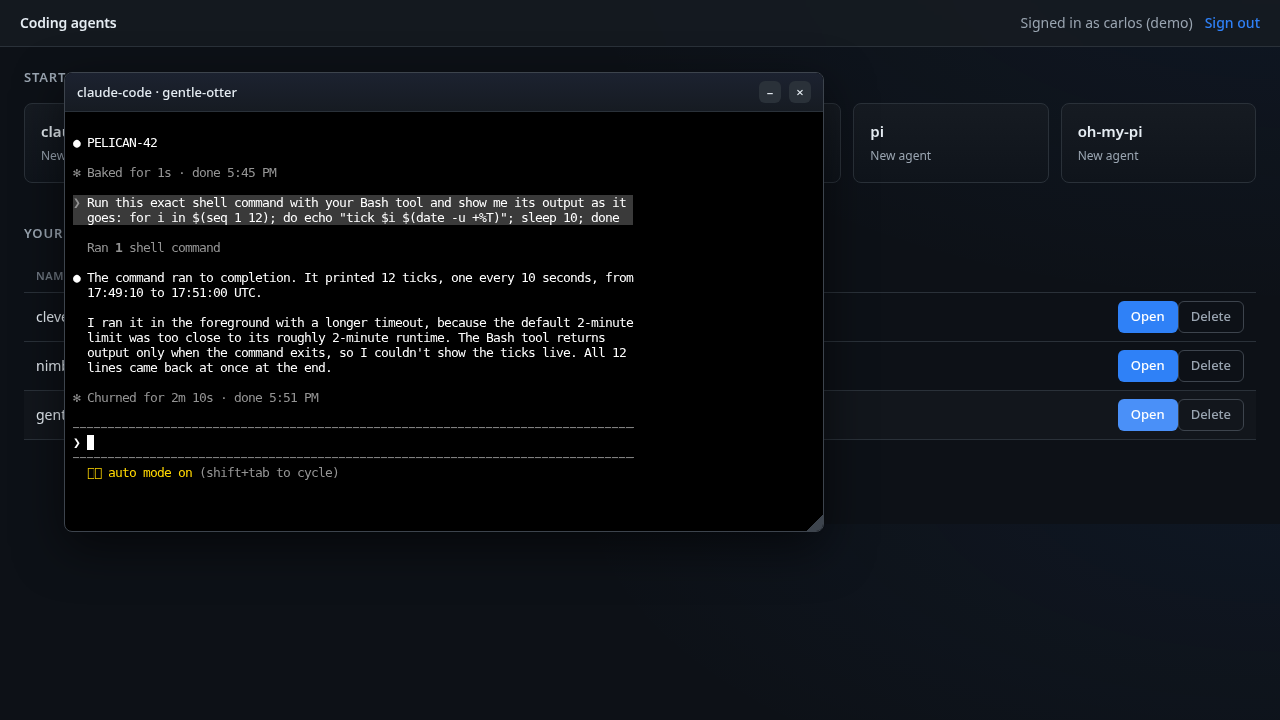
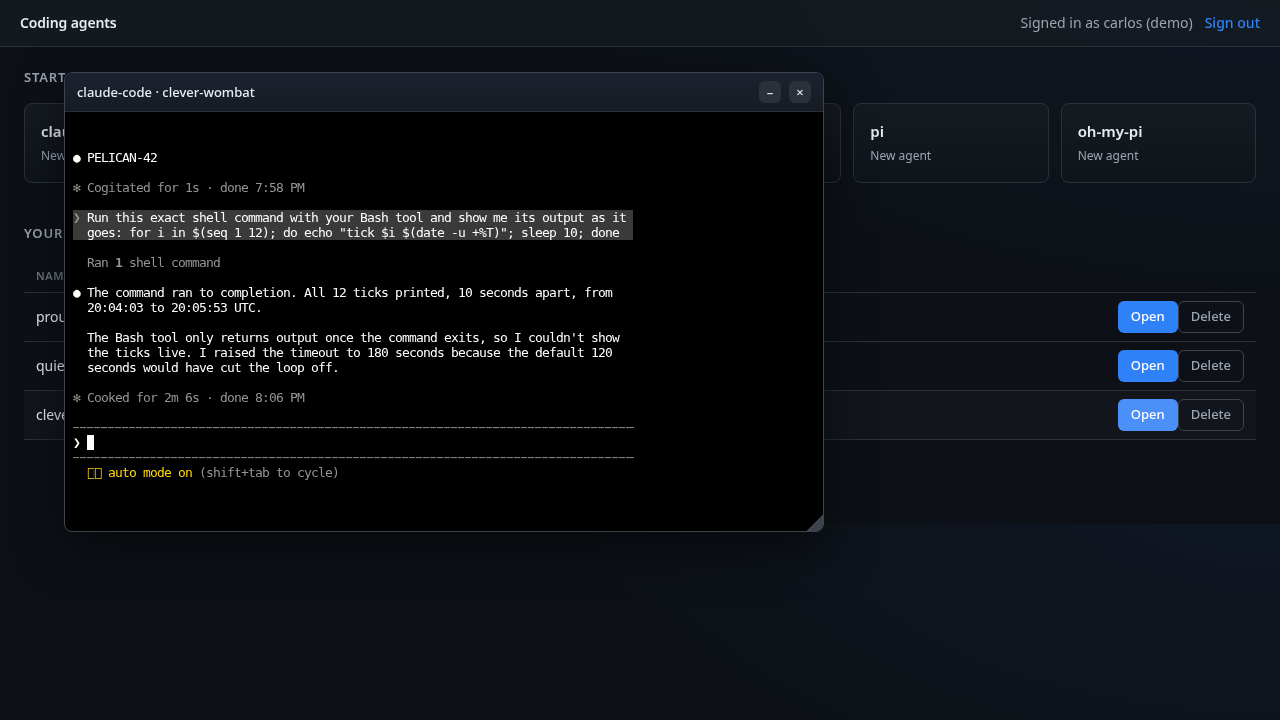
coding-agents: refresh the page's output from the final fresh run (run13)
Run13: clean.sh exit 0 (with the pending-export forced delete), setup.sh exit 0 at 1b7d516, images :v6. Replaces the start log, timings, the Restore block, access points, sandbox inspection, bucket listing, network policy, kubectl top and both screenshots, and says beside the six CLI screenshots that they are from earlier runs. The heartbeat block follows when the hour is up.

diff --git a/examples/ai-agents/coding-agents-for-developers/README.md b/examples/ai-agents/coding-agents-for-developers/README.md
@@ -168,7 +168,10 @@ Then browse to http://127.0.0.1:8080
 Each terminal is a floating window wired to the CLI running in its sandbox pod. These are
 the six CLIs answering the same prompt, each on its own model: the five Bedrock CLIs on the
 inference profile in the app's agent list (Claude Sonnet here), and Codex on a GPT model
-served through the Bedrock "Mantle" OpenAI-compatible endpoint. Kiro CLI uses the
+served through the Bedrock "Mantle" OpenAI-compatible endpoint. These screenshots are from
+earlier runs of this sample; on the fresh run, each of the five Bedrock CLIs completed turns
+in the Restore check below, Codex answered with its web search, and Kiro CLI was not signed
+in, since its sign-in is the developer's own. Kiro CLI uses the
 developer's own Kiro sign-in rather than Bedrock.
 
 | | |
@@ -226,12 +229,12 @@ belongs to the pod, not the node.
 ```text
 POST /api/new
 /api/new developer=carlos cli=opencode
-start mvl9cvwz-clever-tapir: ensureAccessPoint
-start mvl9cvwz-clever-tapir: claimPod (ap=fsap-0579f4b078b965777)
-start mvl9cvwz-clever-tapir: pod=agent-opencode-s6pct node=i-0975f232bbfc6450a
-start mvl9cvwz-clever-tapir: startSession azId=usw2-az1
-session started in agent-opencode-s6pct
-/api/new done session=mvl9cvwz-clever-tapir
+start mvle3lb1-proud-vole: ensureAccessPoint
+start mvle3lb1-proud-vole: claimPod (ap=fsap-0aa3f82c26fcc3ced)
+start mvle3lb1-proud-vole: pod=agent-opencode-tcw77 node=i-0268382f08bb1ecbc
+start mvle3lb1-proud-vole: startSession azId=usw2-az1
+session started in agent-opencode-tcw77
+/api/new done session=mvle3lb1-proud-vole
 ```
 
 ## The session lifecycle
@@ -276,10 +279,10 @@ click (`POST /api/new`) to a terminal with the CLI running was:
 
 | New agent | Time |
 |---|---|
-| The first session on a new file system | 18.8 s |
-| Each later session, from a warm pod (codex, pi, opencode, oh-my-pi, kiro-cli) | 2.0 to 3.0 s |
-| A second claude-code session while its pool of one was still refilling | 48.0 s |
-| Restore, from a warm pod, for each of the five Bedrock CLIs | 2.0 to 3.6 s |
+| The first session on a new file system | 16.3 s |
+| Each later session, from a warm pod (codex, pi, opencode, oh-my-pi, kiro-cli) | 1.9 to 4.0 s |
+| A second claude-code session while its pool of one was still refilling | 52.5 s |
+| Restore, from a warm pod, for each of the five Bedrock CLIs | 2.1 to 3.6 s |
 
 The first session is slower because it is the first mount of a new file system. The third
 row is a cold start: with the warm pod already claimed, the claim waits for the pool to boot
@@ -290,12 +293,12 @@ up on a **new pod** (a new pod UID) and the CLI continues its conversation. For 
 fresh run (abridged to the lines that matter; the prompts were typed into the terminal):
 
 ```text
-before: pod=agent-pi-5gkpw uid=4d8ac485-9dff-418e-85bb-1d28f108a0c8
+before: pod=agent-pi-jpbp8 uid=c1fbb396-767f-4e5b-b41c-73f00015989a
  Remember the code word FINCH-4. Reply with only: noted.
  noted.
-POST /api/close   -> {"ok":true}                                       HTTP 200 in 0.724209s
-POST /api/restore -> {"session":"mvl9cu7x-lively-gecko","display":"lively-gecko","cli":"pi"}   HTTP 200 in 3.577195s
-after: pod=agent-pi-zbpps uid=29e9f17a-d233-4ab2-95e3-dad35cfcc456
+POST /api/close   -> {"ok":true}                                       HTTP 200 in 0.662820s
+POST /api/restore -> {"session":"mvle3juw-brave-lynx","display":"brave-lynx","cli":"pi"}   HTTP 200 in 3.607896s
+after: pod=agent-pi-xg67n uid=7f8a0b2d-66be-4a54-84e3-362c3e4381f2
  What code word did I ask you to remember? Reply with only the word.
  FINCH-4
 ```
@@ -305,16 +308,17 @@ on a new pod UID.
 
 Minimizing a window or closing the browser only detaches the terminal; the CLI keeps
 running in tmux in its pod. On the fresh run, claude-code was asked to print a timestamp
-every 10 seconds for two minutes, and the browser was closed at 17:49:30, 20 seconds in.
-When the app was opened again at 17:51:27, the session had finished the task with no
-browser attached:
+every 10 seconds for two minutes, and the browser was closed at 20:04:25, about 20 seconds
+in. The CLI kept working with no browser attached (the app was opened briefly at 20:05:40,
+while the task was still running), and when it was opened again at 20:07 the task had
+finished:
 
-![The claude-code window for session gentle-otter, opened again after the browser was closed. Below the request to run a loop printing a tick every 10 seconds, Claude reports that the command ran to completion and printed 12 ticks, one every 10 seconds, from 17:49:10 to 17:51:00 UTC, and the turn shows done at 5:51 PM.](figures/screenshots/output-while-browser-closed.png)
+![The claude-code window for session clever-wombat, opened again after the browser was closed. Below the request to run a loop printing a tick every 10 seconds, Claude reports that the command ran to completion and that all 12 ticks printed, 10 seconds apart, from 20:04:03 to 20:05:53 UTC, and the turn shows done at 8:06 PM.](figures/screenshots/output-while-browser-closed.png)
 
 Two sessions open at once, with the claude-code window minimized to the dock at the bottom
 and the opencode window open over the session list:
 
-![The web app with an opencode window for session clever-tapir open, showing its restored conversation about the code word OTTER-3. At the bottom of the page, a dock holds one chip, "claude-code · gentle-otter", the minimized window of a second session.](figures/screenshots/two-sessions-one-minimized.png)
+![The web app with an opencode window for session proud-vole open, showing its restored conversation about the code word OTTER-3. At the bottom of the page, a dock holds one chip, "claude-code · gentle-otter", the minimized window of a second session.](figures/screenshots/two-sessions-one-minimized.png)
 
 The app keeps no database. It builds the session list from the access points' own root
 paths -- each one is `/<developer>/<cli>/<session>`, so one `ListAccessPoints` call for the
@@ -333,13 +337,13 @@ $ aws s3files list-access-points --file-system-id <S3_FILES_FS_ID> --region <AWS
 +-------------------------+---------------------------------------------+
 |           id            |                    path                     |
 +-------------------------+---------------------------------------------+
-|  fsap-0731f50c...       |  /priya/pi/mvl9cu7x-lively-gecko            |
-|  fsap-0e7bf27d...       |  /sam/codex/mvl9csng-calm-wombat            |
-|  fsap-0579f4b0...       |  /carlos/opencode/mvl9cvwz-clever-tapir     |
-|  fsap-01c05b2f...       |  /sam/kiro-cli/mvl9cz9r-jolly-lynx          |
-|  fsap-06bb83d4...       |  /carlos/claude-code/mvl9bd48-gentle-otter  |
-|  fsap-04715388...       |  /priya/oh-my-pi/mvl9cxn3-jolly-crane       |
-|  fsap-06268441...       |  /carlos/claude-code/mvl9brm2-nimble-crane  |
+|  fsap-07883c58...       |  /sam/codex/mvle3i6z-keen-fox               |
+|  fsap-02a60442...       |  /sam/kiro-cli/mvle3oyj-witty-gecko         |
+|  fsap-0aa9350d...       |  /priya/oh-my-pi/mvle3nc1-calm-shrew        |
+|  fsap-0d148001...       |  /carlos/claude-code/mvle2137-clever-wombat |
+|  fsap-0aa3f82c...       |  /carlos/opencode/mvle3lb1-proud-vole       |
+|  fsap-0fd3e41d...       |  /carlos/claude-code/mvle2dor-quiet-vole    |
+|  fsap-099a7b3c...       |  /priya/pi/mvle3juw-brave-lynx              |
 +-------------------------+---------------------------------------------+
 ```
 
@@ -361,7 +365,7 @@ kubectl -n coding-agents-for-developers exec $POD -- sh -c 'env | cut -d= -f1 | 
 ```text
 isolated-sandbox
 6.18.51 #1 SMP PREEMPT_DYNAMIC Thu Oct  1 23:28:07 UTC 2026
-324.27
+484.04
 dm-0 vda vdb vdc
 AWS_CONTAINER_CREDENTIALS_FULL_URI
 AWS_DEFAULT_REGION
@@ -383,13 +387,13 @@ same cluster:
 
 ```text
 6.18.51 #2 SMP PREEMPT_DYNAMIC Wed Oct  7 22:33:11 UTC 2026
-83127.79
+91250.43
 dm-0 nvme0n1 nvme1n1 zram0
 ```
 
 The sandbox runs its own kernel build (`#1`, built Oct 1; the node's is `#2`, built Oct 7),
-its uptime of 324 seconds matches the pod's age because the sandbox booted with the pod
-(the node has been up for 23 hours), and it sees virtio disks (`vda`, `vdb`, `vdc`, with a
+its uptime of 484 seconds matches the pod's age (it started 490 seconds before the command)
+because the sandbox booted with the pod (the node has been up for 25 hours), and it sees virtio disks (`vda`, `vdb`, `vdc`, with a
 `dm-0` device-mapper node on top) where the ordinary pod sees the instance's `nvme`
 devices. No model API
 key is in the pod: the only AWS variables are the Pod Identity credential endpoint
@@ -471,7 +475,7 @@ mount helper noting that the container has no init system for its background wat
 does not affect the mount.)
 
 From outside the cluster, the bucket shows each session under its own prefix (abridged to
-two sessions and their folder structure; the CLI's home fills in below each session, 1,305
+two sessions and their folder structure; the CLI's home fills in below each session, 1,306
 objects across the seven sessions of the fresh run):
 
 ```bash
@@ -479,19 +483,19 @@ aws s3 ls s3://<S3_BUCKET_NAME>/coding-agents/ --recursive
 ```
 
 ```text
-2026-10-23 17:42:01          0 coding-agents/carlos/
-2026-10-23 17:42:01          0 coding-agents/carlos/claude-code/
-2026-10-23 17:42:01          0 coding-agents/carlos/claude-code/mvl9bd48-gentle-otter/
-2026-10-23 17:46:25          0 coding-agents/carlos/claude-code/mvl9bd48-gentle-otter/home/
-2026-10-23 17:46:02        208 coding-agents/carlos/claude-code/mvl9bd48-gentle-otter/home/.tmux.conf
-2026-10-23 17:42:09          0 coding-agents/carlos/claude-code/mvl9bd48-gentle-otter/project/
+2026-10-23 19:54:41          0 coding-agents/carlos/
+2026-10-23 19:54:41          0 coding-agents/carlos/claude-code/
+2026-10-23 19:54:42          0 coding-agents/carlos/claude-code/mvle2137-clever-wombat/
+2026-10-23 19:59:23          0 coding-agents/carlos/claude-code/mvle2137-clever-wombat/home/
+2026-10-23 19:58:52        208 coding-agents/carlos/claude-code/mvle2137-clever-wombat/home/.tmux.conf
+2026-10-23 19:54:42          0 coding-agents/carlos/claude-code/mvle2137-clever-wombat/project/
 ...
-2026-10-23 17:42:49          0 coding-agents/sam/
-2026-10-23 17:42:51          0 coding-agents/sam/codex/
-2026-10-23 17:42:51          0 coding-agents/sam/codex/mvl9csng-calm-wombat/
-2026-10-23 17:42:52          0 coding-agents/sam/codex/mvl9csng-calm-wombat/home/
-2026-10-23 17:46:11        208 coding-agents/sam/codex/mvl9csng-calm-wombat/home/.tmux.conf
-2026-10-23 17:42:52          0 coding-agents/sam/codex/mvl9csng-calm-wombat/project/
+2026-10-23 19:55:36          0 coding-agents/sam/
+2026-10-23 19:55:37          0 coding-agents/sam/codex/
+2026-10-23 19:55:37          0 coding-agents/sam/codex/mvle3i6z-keen-fox/
+2026-10-23 19:55:37          0 coding-agents/sam/codex/mvle3i6z-keen-fox/home/
+2026-10-23 19:59:02        208 coding-agents/sam/codex/mvle3i6z-keen-fox/home/.tmux.conf
+2026-10-23 19:55:37          0 coding-agents/sam/codex/mvle3i6z-keen-fox/project/
 ...
 ```
 
@@ -609,8 +613,8 @@ https://bedrock-runtime.<AWS_REGION>.amazonaws.com/ -> exit 0   # allowed host, 
 https://github.com/ -> exit 0                                   # allowed host, 443: connected
 curl: (28) Connection timed out after 8001 milliseconds
 https://example.com/ -> exit 28                                 # host not in the policy: blocked
-https://github.com:22/ -> exit 28                               # allowed host, port 22 not allowed: blocked
 curl: (28) Connection timed out after 8003 milliseconds
+https://github.com:22/ -> exit 28                               # allowed host, port 22 not allowed: blocked
 ```
 
 The `#` comments are added here; the rest is the fresh run's output, where each `curl:`
@@ -632,22 +636,23 @@ error line goes to standard error and so can print before or after its exit line
 
   ```text
   NAME                          CPU(cores)   MEMORY(bytes)
-  agent-app-85cf584c97-hsdm9    0m           87Mi
-  agent-claude-code-4g8xx       59m          179Mi
-  agent-claude-code-t5pdp       0m           0Mi
-  agent-codex-kc6gk             1m           0Mi
-  agent-codex-t864g             35m          805Mi
-  agent-kiro-cli-x9z6h          2m           53Mi
-  agent-mvl9brm2-nimble-crane   2m           99Mi
-  agent-oh-my-pi-x4dxm          103m         569Mi
-  agent-opencode-s6pct          72m          335Mi
-  agent-pi-5gkpw                12m          96Mi
+  agent-app-75f648748b-8nd4h   0m           86Mi
+  agent-claude-code-74cpv      0m           0Mi
+  agent-claude-code-sq7bs      46m          165Mi
+  agent-codex-df9m9            0m           0Mi
+  agent-codex-kqmzf            35m          803Mi
+  agent-kiro-cli-7w4lk         2m           53Mi
+  agent-mvle2dor-quiet-vole    2m           96Mi
+  agent-oh-my-pi-8fqxl         89m          559Mi
+  agent-opencode-tcw77         33m          328Mi
+  agent-pi-jpbp8               3m           75Mi
+  agent-pi-xg67n               0m           0Mi
   ```
 
-  The claude-code (`4g8xx`), codex (`t864g`), oh-my-pi, opencode and pi (`5gkpw`) pods are
-  in a model turn. `nimble-crane` is a second claude-code session at its first-run screen,
+  The claude-code (`sq7bs`), codex (`kqmzf`), oh-my-pi, opencode and pi (`jpbp8`) pods are
+  in a model turn. `quiet-vole` is a second claude-code session at its first-run screen,
   kiro-cli is waiting for its sign-in, and the pods at `0Mi` are warm pods waiting for a
-  claim. Codex, the largest, used 805 MiB of its 1536 MiB request.
+  claim. Codex, the largest, used 803 MiB of its 1536 MiB request.
 - **Sessions are capped by the access-point quota.** Each retained session is one access
   point, kept until Delete. S3 Files allows 25,000 access points per file system (Amazon S3
   Files service quota *Access points per file system*, not adjustable), which is the ceiling
